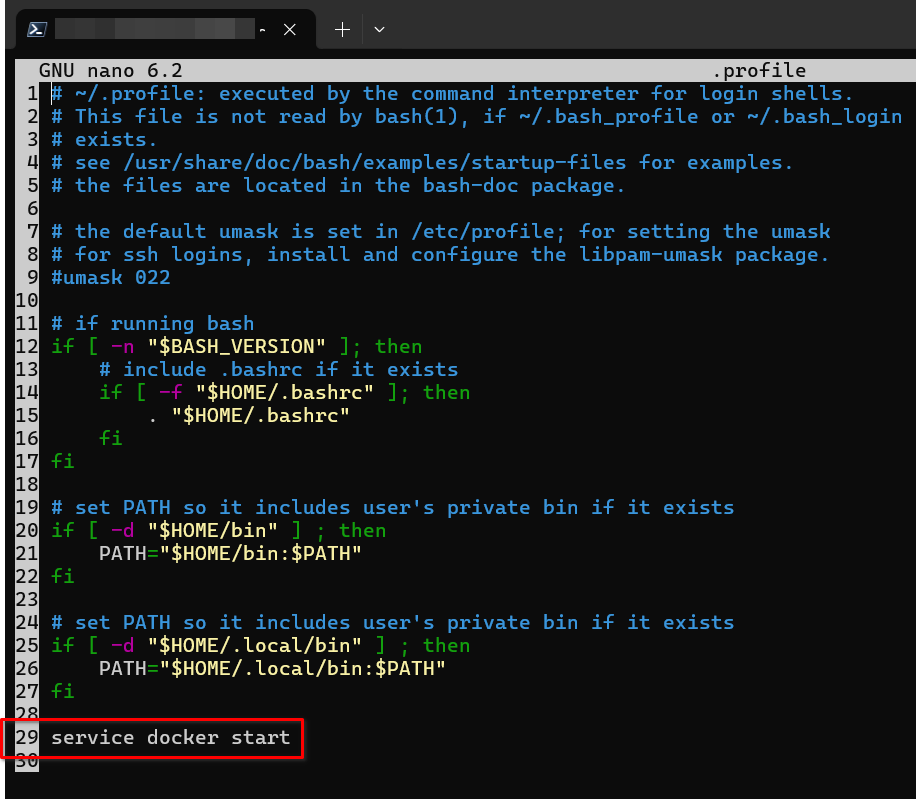
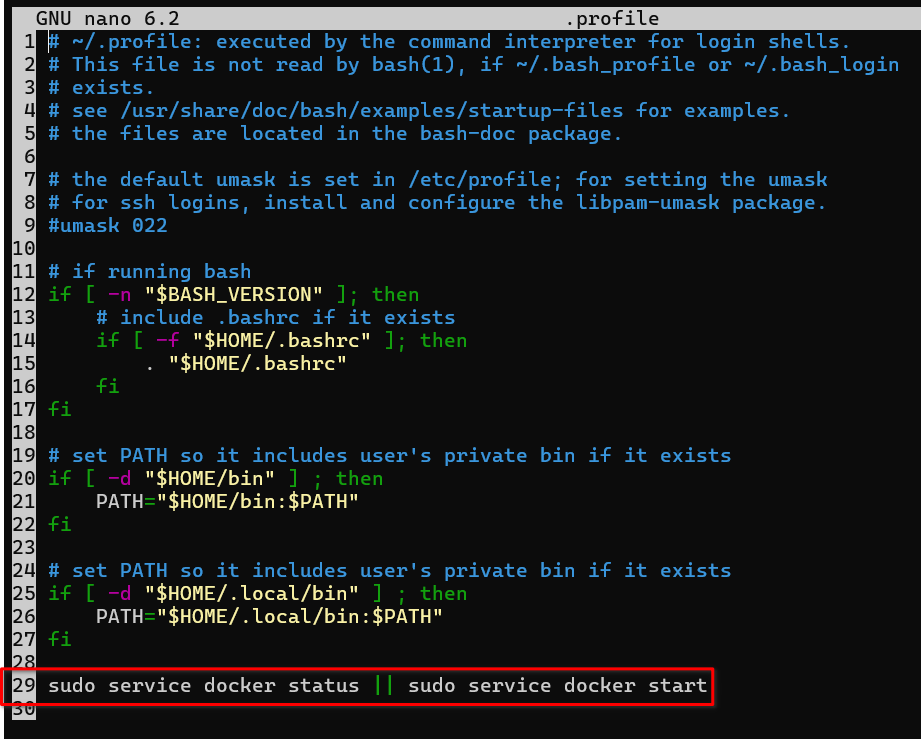
updated the image and cmd from .profile

Changed region(s): [[0.0, 0.0, 1.0, 0.9959]]

diff --git a/how-tos/docker_setup_on_wsl_2.md b/how-tos/docker_setup_on_wsl_2.md
@@ -139,7 +139,9 @@ If you think setting up docker is a single cmd task then you are wrong!... I hop
 
 - Alternatively you can add this command from `$HOME` directory
   ```
+  cd ~
   sudo nano -l .profile
+  sudo service docker status || sudo service docker start
   ```
   ![alt text](images/image-28.png)
 
